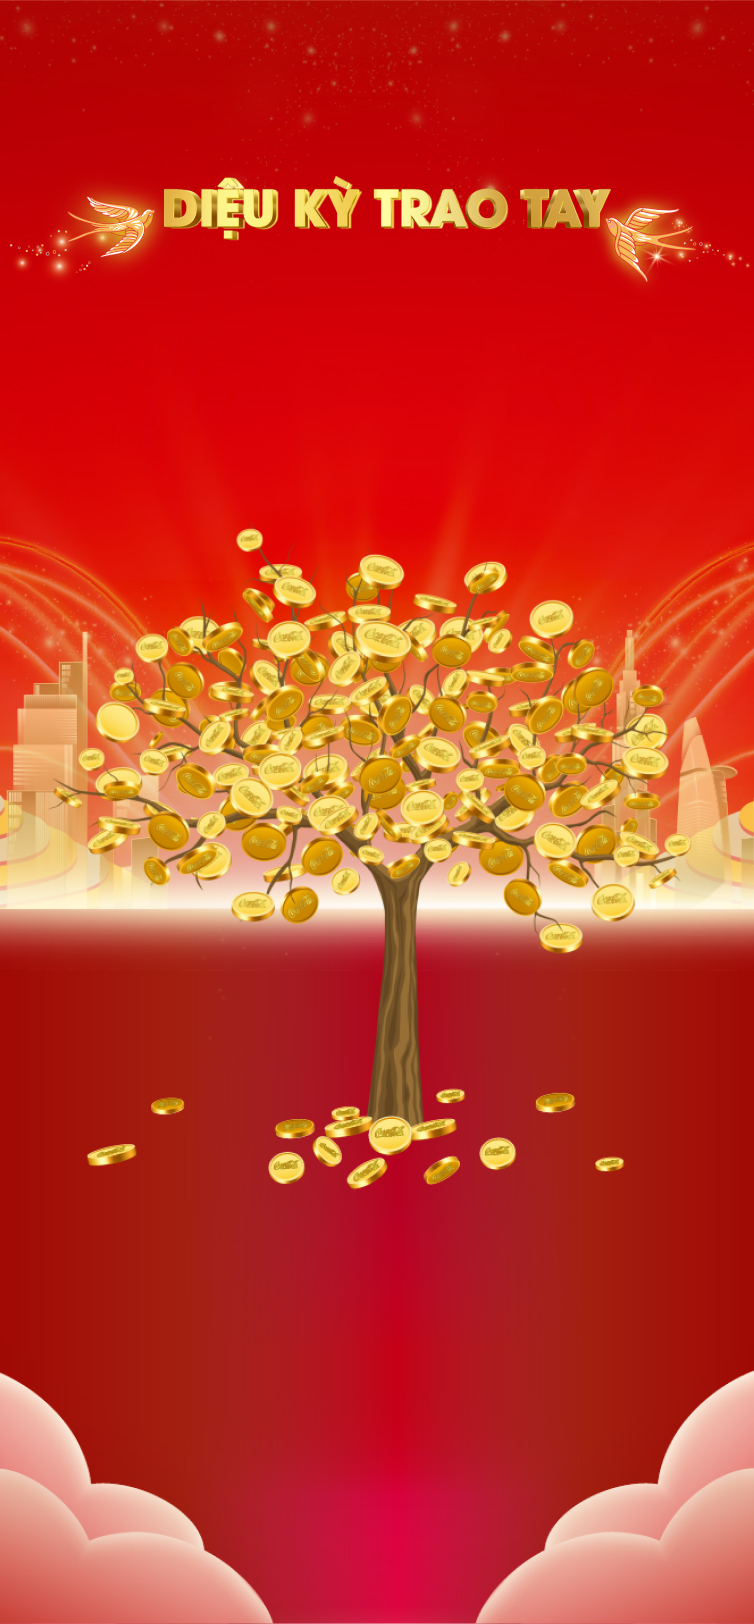
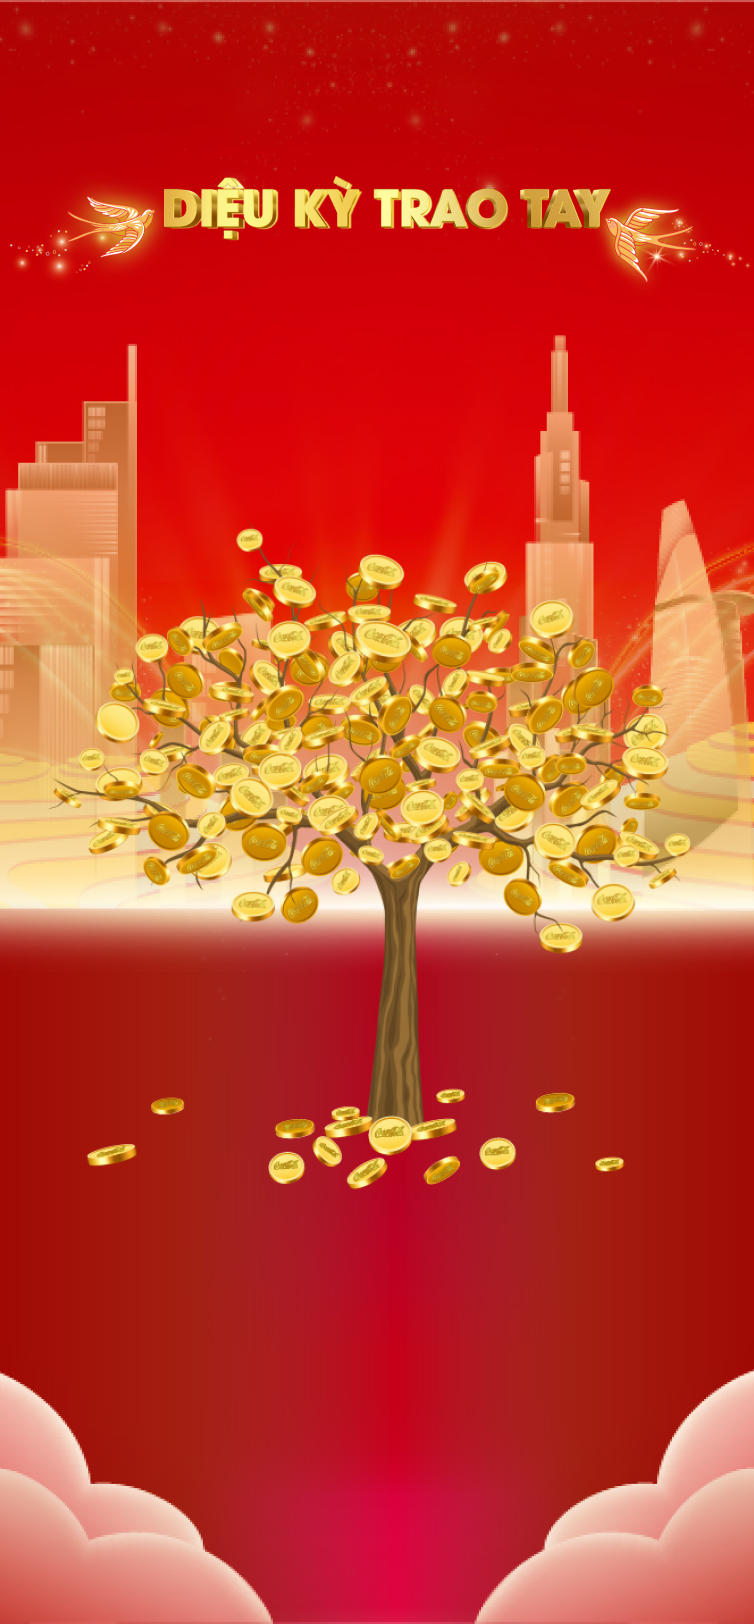
fix tree

Changed region(s): [[0.6406, 0.1847, 1.0, 0.5542], [0.0, 0.2155, 0.3966, 0.5542], [0.6101, 0.9852, 0.6406, 1.0]]

diff --git a/assets/js/index.js b/assets/js/index.js
@@ -28,7 +28,8 @@
     // game animation
     tree.addEventListener("click", function (e) {
       tree.querySelector('img').classList.add("active");
-
+      document.body.classList.remove("is-game");
+      document.body.classList.add('is-hidden-tree');
       // show result
       setTimeout(() => {
         gameAnimation.style.display = "none";

diff --git a/sass/_general.scss b/sass/_general.scss
@@ -59,6 +59,11 @@ main{
     background: url(../images/v4/bg-2.jpg) no-repeat top center/cover;
   }
 }
+.p-game-step2.is-hidden-tree {
+  main{
+    background: url(../images/v4/bg-2-2.jpg) no-repeat top center/cover;
+  }
+}
 header{
   display:flex;
   width: 100%;

diff --git a/assets/css/style.css b/assets/css/style.css
@@ -260,6 +260,10 @@ main {
   background: url(../images/v4/bg-2.jpg) no-repeat top center/cover;
 }
 
+.p-game-step2.is-hidden-tree main {
+  background: url(../images/v4/bg-2-2.jpg) no-repeat top center/cover;
+}
+
 header {
   display: flex;
   width: 100%;
